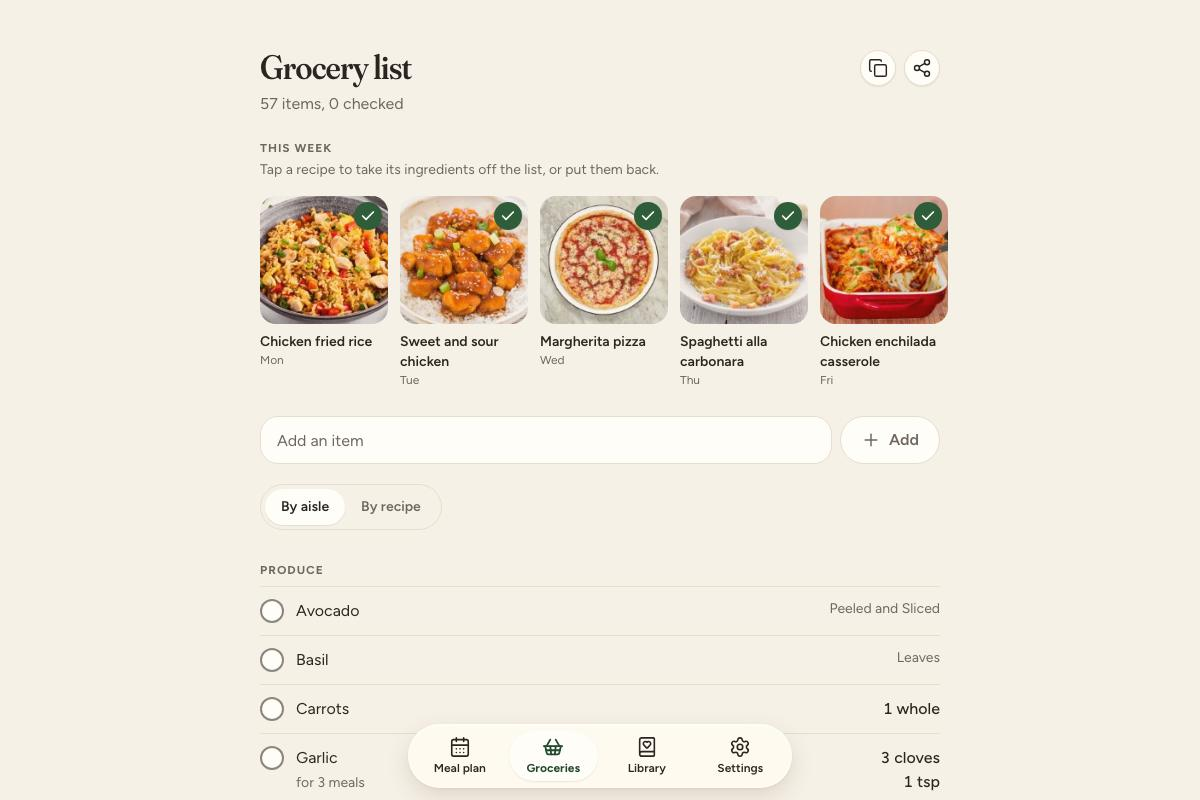
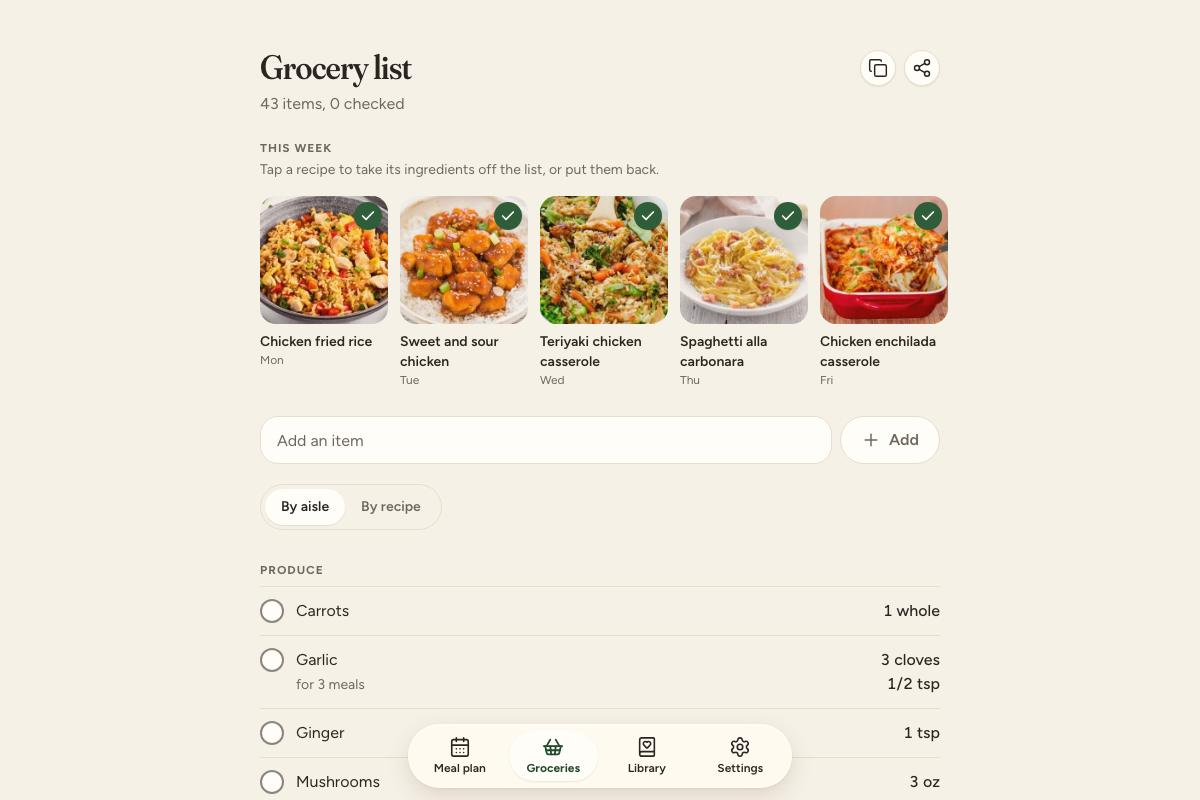
Website images: review fixes
A fresh-context review flagged Sunday's slow-cooker tacos (4.7 hr) and a pale
pizza in the hero week and grocery shots, and a bolognese photo on the blog's
hidden-sugar card. Sunday is now sticky chicken (50 min), Wednesday teriyaki
chicken casserole, and the card shows the mango smoothie recipe.

diff --git a/website/blog.html b/website/blog.html
@@ -281,7 +281,7 @@
 
       <article class="blog-card">
         <div class="blog-card-img">
-          <img src="images/blog-recipe.jpg" width="600" height="400" loading="lazy" alt="A recipe in Forka: spaghetti bolognese, about 50 minutes, with its ingredients.">
+          <img src="images/blog-recipe.jpg" width="600" height="400" loading="lazy" alt="A recipe in Forka: a creamy mango smoothie, about 10 minutes, with its ingredients.">
         </div>
         <div class="blog-card-body">
           <span class="blog-card-tag">Nutrition</span>
